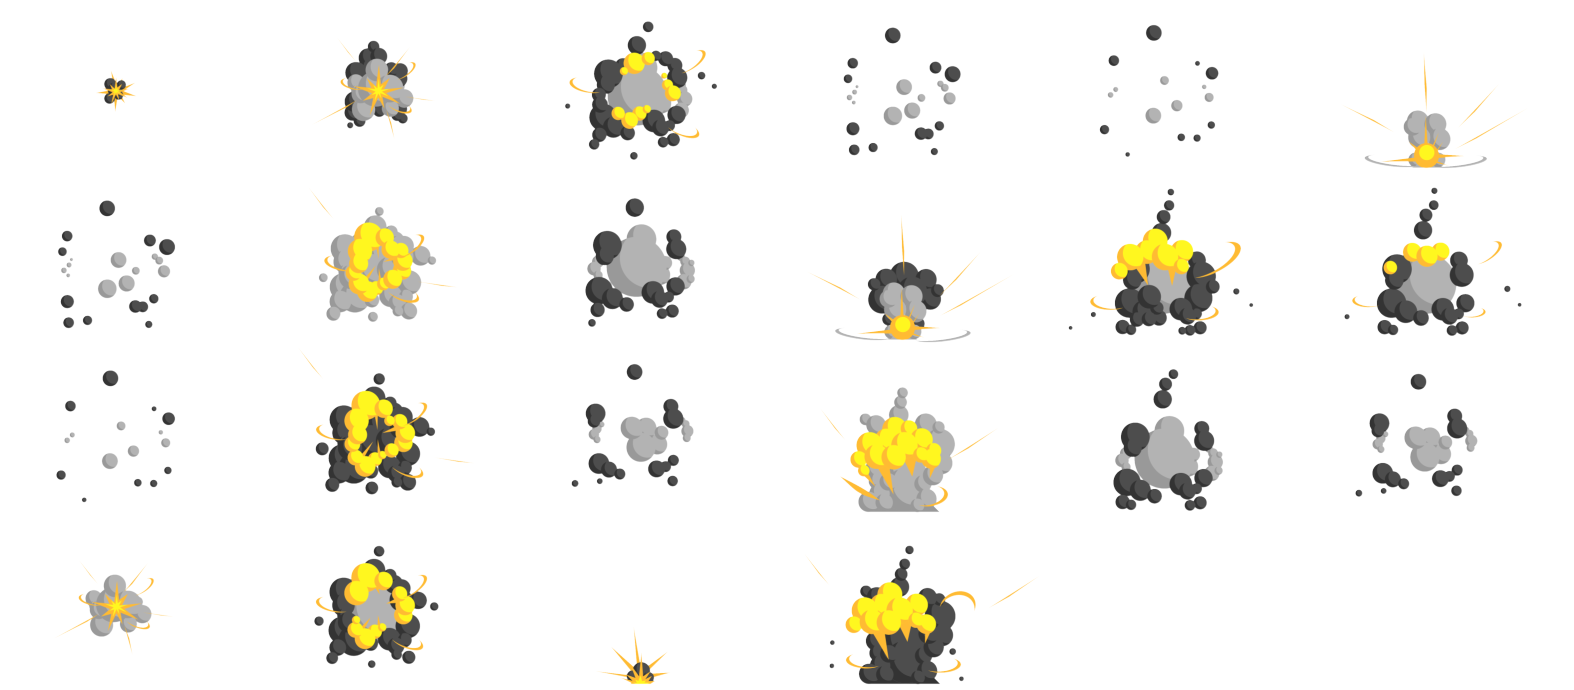
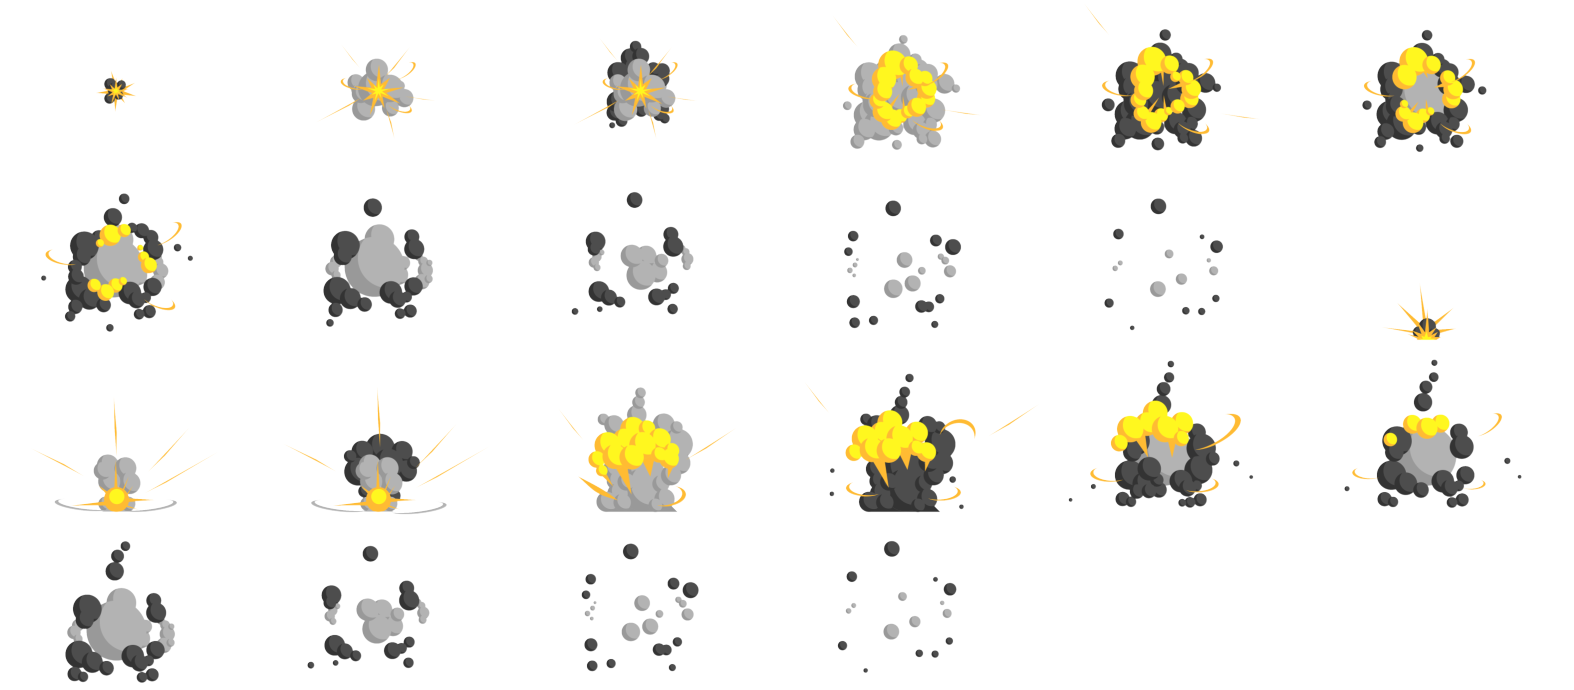
Adding explosion animation.

diff --git a/index.html b/index.html
@@ -44,7 +44,7 @@
                     {src:"images/units/titan.png",  id:"titan"},
                     {src:"images/units/walker.png", id:"walker"},
                     {src:"images/units/champ.png",  id:"champ"},
-                    // effects
+                    // fx
                     {src:"images/fx/explosions.png",id:"explosions"},
                     {src:"images/fx/bullets.png",   id:"bullets"}
                 ];
@@ -60,10 +60,11 @@
                 stage.addChild(champion);
 
                 createjs.Ticker.addEventListener("tick", tickStage);
-                createjs.Ticker.setFPS(40);
+                createjs.Ticker.setFPS(30);
             }
 
             function tickStage(event){
+                stageKeyUpldate();
                 // only update if animation has changed
                 if(champion.currentAnimation != activeKey){
                     champion.gotoAndPlay(activeKey);
@@ -83,6 +84,10 @@
             function stageKeyUp(event){
                 // release the current animation
                 activeKey = "idle";
+            }
+
+            function stageKeyUpldate(){
+
             }
 
             function scaleCanvas() {

diff --git a/src/SpriteFactory.js b/src/SpriteFactory.js
@@ -56,7 +56,15 @@ function SpriteFactory(loader) {
         "walk":           [97, 111]
       }
     },
-    bullets: {
+    explosion: {
+      "images": [loader.getResult("explosions")],
+      "frames": {width: 262, height: 172},
+      "animations": {
+        "explo":[0, 10],
+        "explo_ground":[11, 21]
+      }
+    },
+    bullet: {
       "images": [loader.getResult("bullets")],
       "frames": [
         [2, 2, 63, 74],
@@ -108,13 +116,12 @@ function SpriteFactory(loader) {
     return new createjs.Sprite(spritesheet, action);
   }
 
-  this.unit = function(enemy){
+  SpriteFactory.prototype.unit = function(enemy){
     return _loadSprite(enemy, "idle")
   };
 
-  this.bullet = function(effect){
-    return _loadSprite("bullets", effect)
-  }
-
+  SpriteFactory.prototype.fx = function(fxType, effect){
+    return _loadSprite(fxType, effect)
+  };
 
 }
